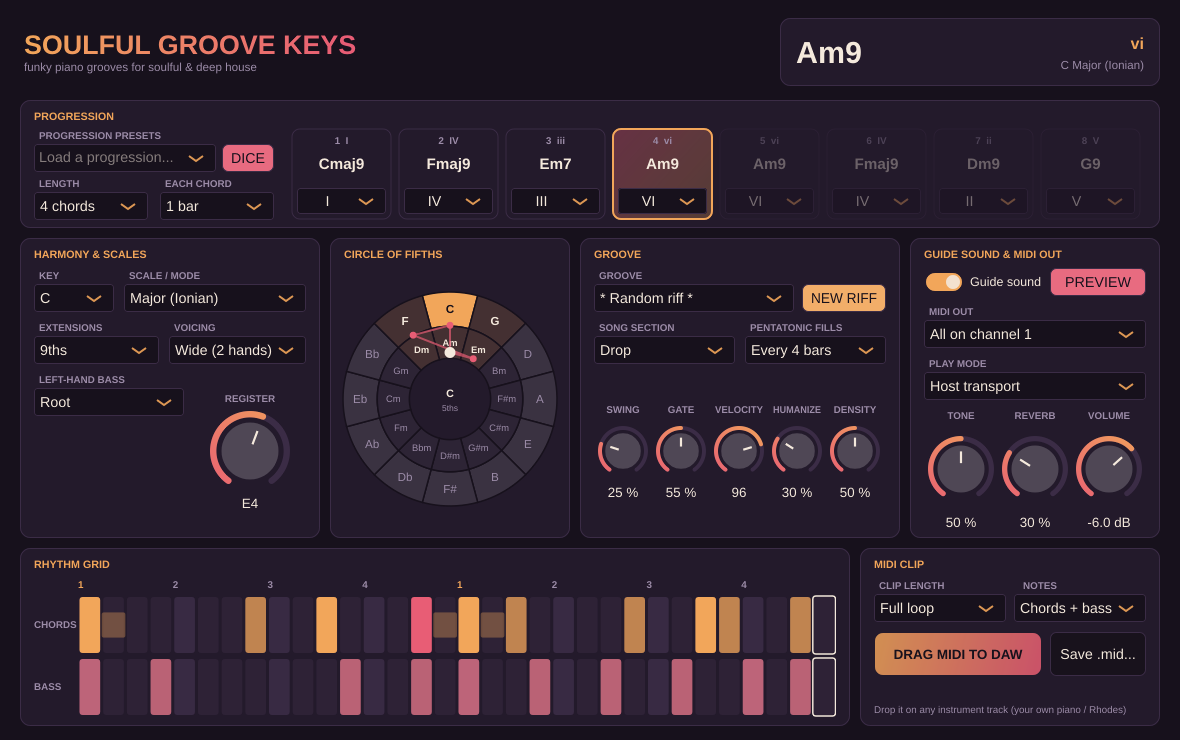
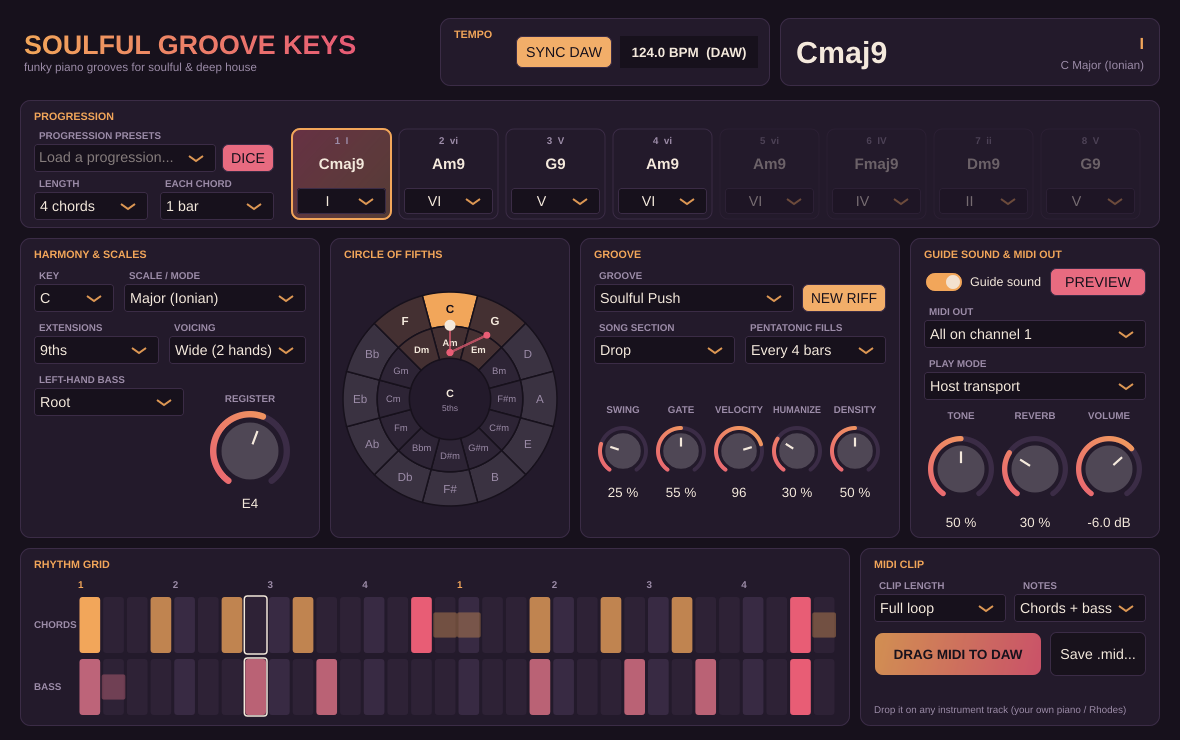
Add tempo control: sync to DAW by default, or unsync and set BPM by hand
The TEMPO box in the header has a SYNC DAW toggle (on by default) that
follows the host tempo and position. Switching it off lets the groove run
at its own BPM (60-180, drag or double-click to type), still started and
stopped by the DAW transport or PREVIEW. MIDI clips use the chosen tempo.

Claude-Session: https://claude.ai/code/session_014RdMJH1UNm9GuUqHn9LsGH

diff --git a/Source/PluginEditor.cpp b/Source/PluginEditor.cpp
@@ -307,7 +307,9 @@ SoulfulGrooveKeysEditor::SoulfulGrooveKeysEditor (SoulfulGrooveKeysProcessor& p)
       soundAttachment (p.apvts, ParamIDs::sound, soundToggle),
       tone (p.apvts, ParamIDs::tone, "Tone"),
       reverb (p.apvts, ParamIDs::reverb, "Reverb"),
-      volume (p.apvts, ParamIDs::volume, "Volume")
+      volume (p.apvts, ParamIDs::volume, "Volume"),
+      syncAttachment (p.apvts, ParamIDs::tempoSync, syncButton),
+      tempoAttachment (p.apvts, ParamIDs::tempo, tempoSlider)
 {
     setLookAndFeel (&lookAndFeel);
 
@@ -354,6 +356,30 @@ SoulfulGrooveKeysEditor::SoulfulGrooveKeysEditor (SoulfulGrooveKeysProcessor& p)
         if (sgk::scaleIsMinor (currentScale) != minorKey)
             processor.setParameterFromUI (ParamIDs::scale, minorKey ? 1.0f : 0.0f);   // Dorian / Major
     };
+
+    // Tempo: "SYNC DAW" on = follow the DAW; off = set the BPM by hand.
+    syncButton.setClickingTogglesState (true);
+    syncButton.setColour (juce::TextButton::buttonColourId, Palette::background);
+    syncButton.setColour (juce::TextButton::buttonOnColourId, Palette::accent);
+    syncButton.setColour (juce::TextButton::textColourOffId, Palette::text);
+    syncButton.setColour (juce::TextButton::textColourOnId, Palette::background);
+    syncButton.setTooltip ("On: follow the DAW tempo. Off: set your own BPM.");
+
+    tempoSlider.setSliderStyle (juce::Slider::LinearBar);
+    tempoSlider.setColour (juce::Slider::trackColourId, Palette::accent2.withAlpha (0.55f));
+    tempoSlider.setColour (juce::Slider::backgroundColourId, Palette::background);
+    tempoSlider.setColour (juce::Slider::textBoxOutlineColourId, juce::Colours::transparentBlack);
+    tempoSlider.setTextValueSuffix ({});
+    tempoSlider.setTooltip ("Drag, or double-click to type the BPM");
+    tempoSlider.setDoubleClickReturnValue (true, 124.0);
+
+    dawTempo.setColour (juce::Label::backgroundColourId, Palette::background);
+    dawTempo.setColour (juce::Label::textColourId, Palette::text);
+    dawTempo.setJustificationType (juce::Justification::centred);
+    dawTempo.setFont (font (15.0f, true));
+
+    for (auto* c : std::initializer_list<juce::Component*> { &syncButton, &tempoSlider, &dawTempo })
+        addAndMakeVisible (c);
 
     previewButton.setClickingTogglesState (true);
     previewButton.setColour (juce::TextButton::buttonColourId, Palette::background);
@@ -482,6 +508,11 @@ void SoulfulGrooveKeysEditor::timerCallback()
         marks.push_back ({ chords[(size_t) i].rootPc, chords[(size_t) i].third == 3 });
     circle.setState (s.keyRoot, sgk::scaleIsMinor (s.scale), marks, playingSlot);
     previewButton.setToggleState (processor.previewOn.load(), juce::dontSendNotification);
+
+    const bool synced = syncButton.getToggleState();
+    tempoSlider.setVisible (! synced);
+    dawTempo.setVisible (synced);
+    dawTempo.setText (juce::String (processor.hostBpm.load(), 1) + " BPM  (DAW)", juce::dontSendNotification);
 }
 
 void SoulfulGrooveKeysEditor::drawPanel (juce::Graphics& g, juce::Rectangle<int> area, const juce::String& title)
@@ -528,6 +559,7 @@ void SoulfulGrooveKeysEditor::paint (juce::Graphics& g)
     g.setFont (font (13.0f));
     g.drawText ((showingHold ? juce::String ("HOLD: ") : juce::String()) + currentKey, cd, juce::Justification::centredRight);
 
+    drawPanel (g, tempoArea, "TEMPO");
     drawPanel (g, progressionPanel, "PROGRESSION");
     drawPanel (g, harmonyPanel, "HARMONY & SCALES");
     drawPanel (g, circlePanel, "CIRCLE OF FIFTHS");
@@ -549,7 +581,17 @@ void SoulfulGrooveKeysEditor::resized()
     // Header
     auto top = r.removeFromTop (76);
     chordDisplayArea = top.removeFromRight (380).reduced (0, 4);
+    top.removeFromRight (10);
+    tempoArea = top.removeFromRight (330).reduced (0, 4);
     headerArea = top;
+    {
+        auto inner = tempoArea.reduced (12, 8).withTrimmedLeft (64);
+        auto controls = inner.withSizeKeepingCentre (inner.getWidth(), 32);
+        syncButton.setBounds (controls.removeFromLeft (96));
+        controls.removeFromLeft (8);
+        tempoSlider.setBounds (controls);
+        dawTempo.setBounds (controls);
+    }
     r.removeFromTop (10);
 
     // Progression

diff --git a/Source/PluginProcessor.cpp b/Source/PluginProcessor.cpp
@@ -80,6 +80,15 @@ juce::AudioProcessorValueTreeState::ParameterLayout SoulfulGrooveKeysProcessor::
     unitFloat (ParamIDs::humanize, "Humanize", 0.0f, 0.3f);
     choice (ParamIDs::fills, "Fills", { "Off", "Every 2 bars", "Every 4 bars", "Every 8 bars" }, 2);
     choice (ParamIDs::playMode, "Play Mode", { "Host transport", "Hold a key" }, 0);
+
+    // Tempo: follows the DAW by default, or runs at its own BPM.
+    layout.add (std::make_unique<AudioParameterBool> (ParameterID { ParamIDs::tempoSync, 1 }, "Sync Tempo to DAW", true));
+    layout.add (std::make_unique<AudioParameterFloat> (ParameterID { ParamIDs::tempo, 1 }, "Tempo",
+                                                       NormalisableRange<float> (60.0f, 180.0f, 0.1f), 124.0f,
+                                                       AudioParameterFloatAttributes().withStringFromValueFunction ([] (float v, int)
+                                                       {
+                                                           return String (v, 1) + " BPM";
+                                                       })));
     choice (ParamIDs::bassChannel, "MIDI Out Channels", { "All on channel 1", "Bass on channel 2" }, 0);
 
     // Sound
@@ -244,30 +253,35 @@ void SoulfulGrooveKeysProcessor::processBlock (juce::AudioBuffer<float>& buffer,
     uiHeldRoot = heldCount > 0 ? settings.keyRoot : -1;
 
     // ---- Timing ----
-    double bpm = 120.0, hostPpq = 0.0;
+    double dawBpm = 120.0, hostPpq = 0.0;
     bool hostPlaying = false, haveHostPpq = false;
 
     if (auto* ph = getPlayHead())
     {
         if (auto pos = ph->getPosition())
         {
-            if (auto b = pos->getBpm())          bpm = *b;
+            if (auto b = pos->getBpm())          dawBpm = *b;
             if (auto p = pos->getPpqPosition()) { hostPpq = *p; haveHostPpq = true; }
             hostPlaying = pos->getIsPlaying();
         }
     }
 
-    bpm = juce::jlimit (20.0, 400.0, bpm);
+    // Synced: the DAW's tempo and position. Unsynced: our own BPM and clock,
+    // still started/stopped by the DAW's play button.
+    const bool tempoSynced = raw (ParamIDs::tempoSync) > 0.5f;
+    hostBpm = juce::jlimit (20.0, 400.0, dawBpm);
+
+    const double bpm = tempoSynced ? hostBpm.load() : juce::jlimit (20.0, 400.0, (double) raw (ParamIDs::tempo));
     lastBpm = bpm;
     const double samplesPerBeat = sampleRate * 60.0 / bpm;
     const double blockBeats = numSamples / samplesPerBeat;
 
-    const bool followHost = hostPlaying && haveHostPpq;
+    const bool followHost = tempoSynced && hostPlaying && haveHostPpq;
     const bool preview = previewOn.load();
 
     // Hold mode plays while a key is down; otherwise it follows the host, and
     // Preview lets the groove run on its own clock while the host is stopped.
-    const bool running = holdMode ? (heldCount > 0 || preview) : (followHost || preview);
+    const bool running = holdMode ? (heldCount > 0 || preview) : (hostPlaying || preview);
 
     double startPpq = 0.0;
     if (followHost)

diff --git a/Source/PluginEditor.h b/Source/PluginEditor.h
@@ -118,6 +118,7 @@ private:
 
     SoulfulGrooveKeysProcessor& processor;
     GrooveLookAndFeel lookAndFeel;
+    juce::TooltipWindow tooltips { this, 600 };
 
     // Progression
     juce::Label presetLabel;
@@ -145,6 +146,13 @@ private:
 
     PatternView patternView;
 
+    // Tempo
+    juce::TextButton syncButton { "SYNC DAW" };
+    juce::Slider tempoSlider;
+    juce::Label dawTempo;
+    juce::AudioProcessorValueTreeState::ButtonAttachment syncAttachment;
+    juce::AudioProcessorValueTreeState::SliderAttachment tempoAttachment;
+
     // MIDI clip export
     juce::Label clipLengthLabel, clipPartLabel;
     juce::ComboBox clipLength, clipPart;
@@ -156,7 +164,7 @@ private:
     SoulfulGrooveKeysProcessor::ClipPart selectedClipPart() const;
     void saveClip();
 
-    juce::Rectangle<int> headerArea, chordDisplayArea, progressionPanel, harmonyPanel, circlePanel, groovePanel,
+    juce::Rectangle<int> headerArea, tempoArea, chordDisplayArea, progressionPanel, harmonyPanel, circlePanel, groovePanel,
                          soundPanel, gridPanel, clipPanel;
 
     juce::String currentChord { "-" }, currentRoman, currentKey;

diff --git a/Source/PluginProcessor.h b/Source/PluginProcessor.h
@@ -28,6 +28,8 @@ namespace ParamIDs
     inline constexpr const char* playMode    = "playMode";
     inline constexpr const char* bassChannel = "bassChannel";
     inline constexpr const char* section     = "section";
+    inline constexpr const char* tempoSync   = "tempoSync";
+    inline constexpr const char* tempo       = "tempo";
     inline constexpr const char* riffSeed    = "riffSeed";
     inline constexpr const char* riffDensity = "riffDensity";
     inline constexpr const char* sound       = "sound";
@@ -101,7 +103,8 @@ public:
     juce::AudioProcessorValueTreeState apvts;
 
     std::atomic<bool> previewOn { false };   // play the groove without the host transport
-    std::atomic<double> lastBpm { 120.0 };
+    std::atomic<double> lastBpm { 120.0 };   // tempo in use (DAW or manual)
+    std::atomic<double> hostBpm { 120.0 };   // what the DAW reports
 
     // Read by the editor for display.
     std::atomic<int> uiStep { -1 };      // current 16th within the pattern, -1 = stopped

diff --git a/README.md b/README.md
@@ -15,6 +15,7 @@ semplice **suono guida** (e‑piano) per farti sentire subito il riff.
 
 | Sezione | Cosa fa |
 |---|---|
+| **Tempo** | **SYNC DAW** (attivo di default): il groove segue BPM e posizione della DAW. Disattivalo per **sganciare** il plugin e impostare i BPM a mano (60–180, trascina la barra o fai doppio clic per scrivere il valore): il groove gira al suo tempo, e parte e si ferma comunque col Play della DAW (o con PREVIEW). Anche le clip MIDI esportate usano il tempo scelto. |
 | **Progression** | 1–8 accordi per gradi della scala (I…VII), ogni accordo dura ½, 1, 2 o 4 battute. 17 preset: *Dorian Vamp i‑IV*, *Soulful Descent IV‑iii‑ii‑I*, *ii‑V*, *Royal Road*, *Minor Flow*, *8‑Bar Journey*, e progressioni sul **circolo delle quinte** (*vi‑ii‑V‑I*, *iii‑vi‑ii‑V*, *Full Circle I‑IV‑vii‑iii‑vi‑ii‑V‑I*…). **DICE** crea una progressione casuale ma musicale, con i movimenti tipici della soulful house (ii‑V, IV‑iii‑ii, quinte discendenti…). |
 | **Circle of fifths** | Circolo delle quinte interattivo: anello esterno = tonalità maggiori, interno = relative minori. Evidenzia la tonalità e le tonalità vicine (I, IV, V), e disegna il **percorso della progressione** sul circolo con l'accordo che sta suonando. Clicca una tonalità per selezionarla (anello interno → modo minore/dorico). |
 | **Harmony & Scales** | 12 tonalità × 8 scale/modi (Maggiore, **Dorica**, Minore naturale, Misolidia, Lidia, Frigia, Minore armonica, Minore melodica). Accordi diatonici costruiti per terze: triadi, 7ª, 9ª, 11ª/13ª (le tensioni "brutte" come la b9 su accordi non di dominante vengono tolte automaticamente). |
